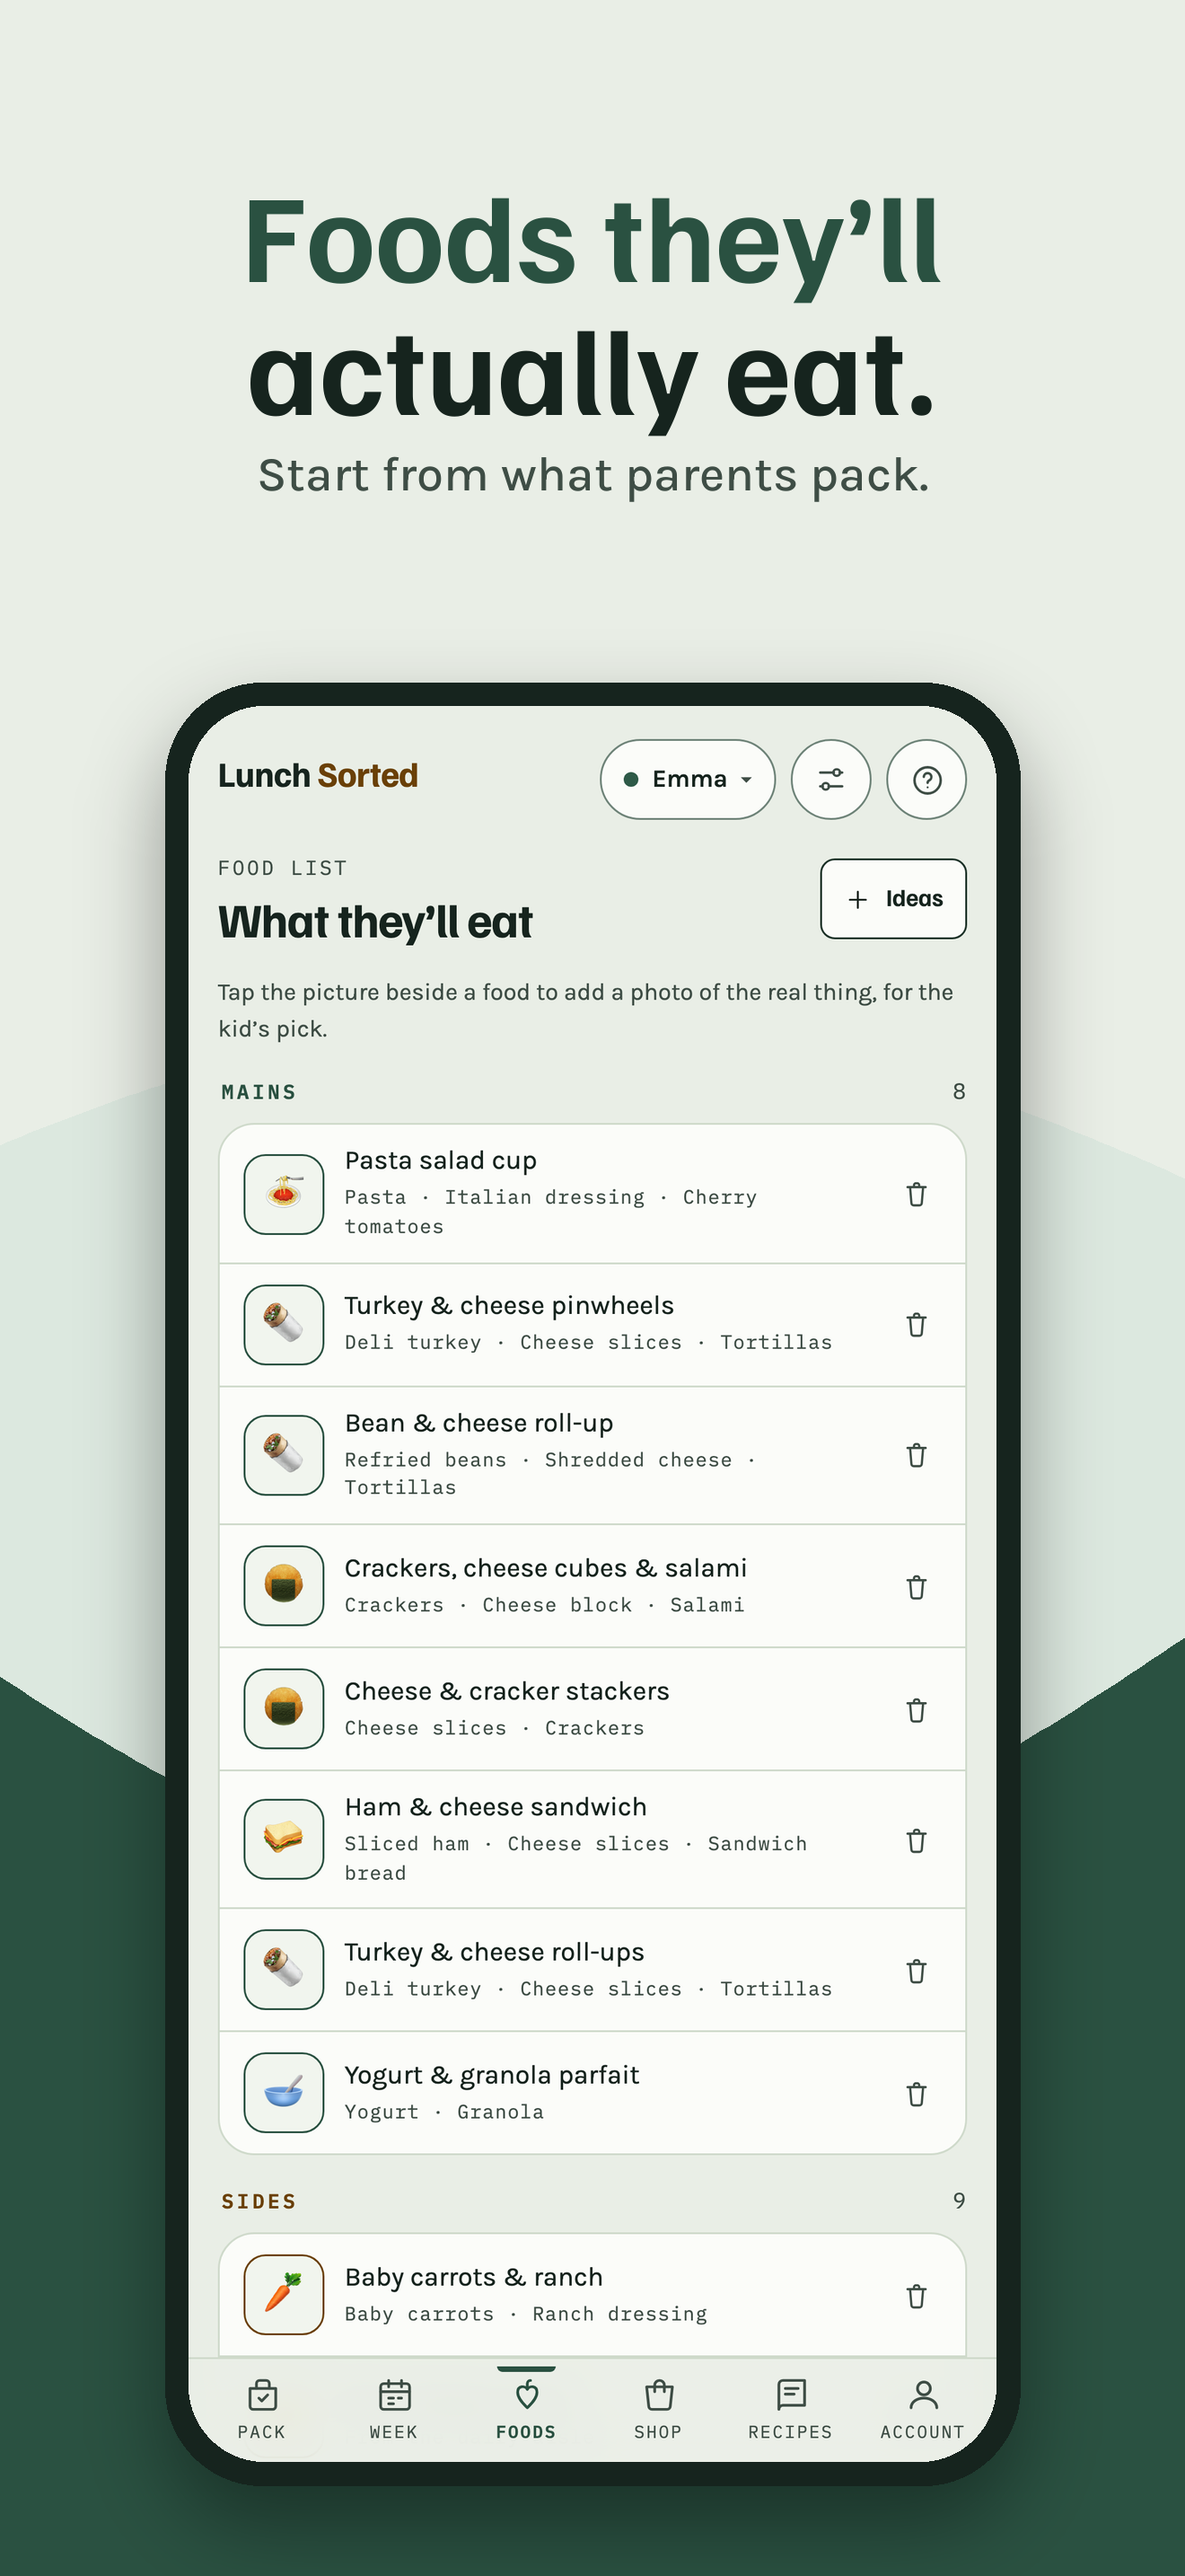
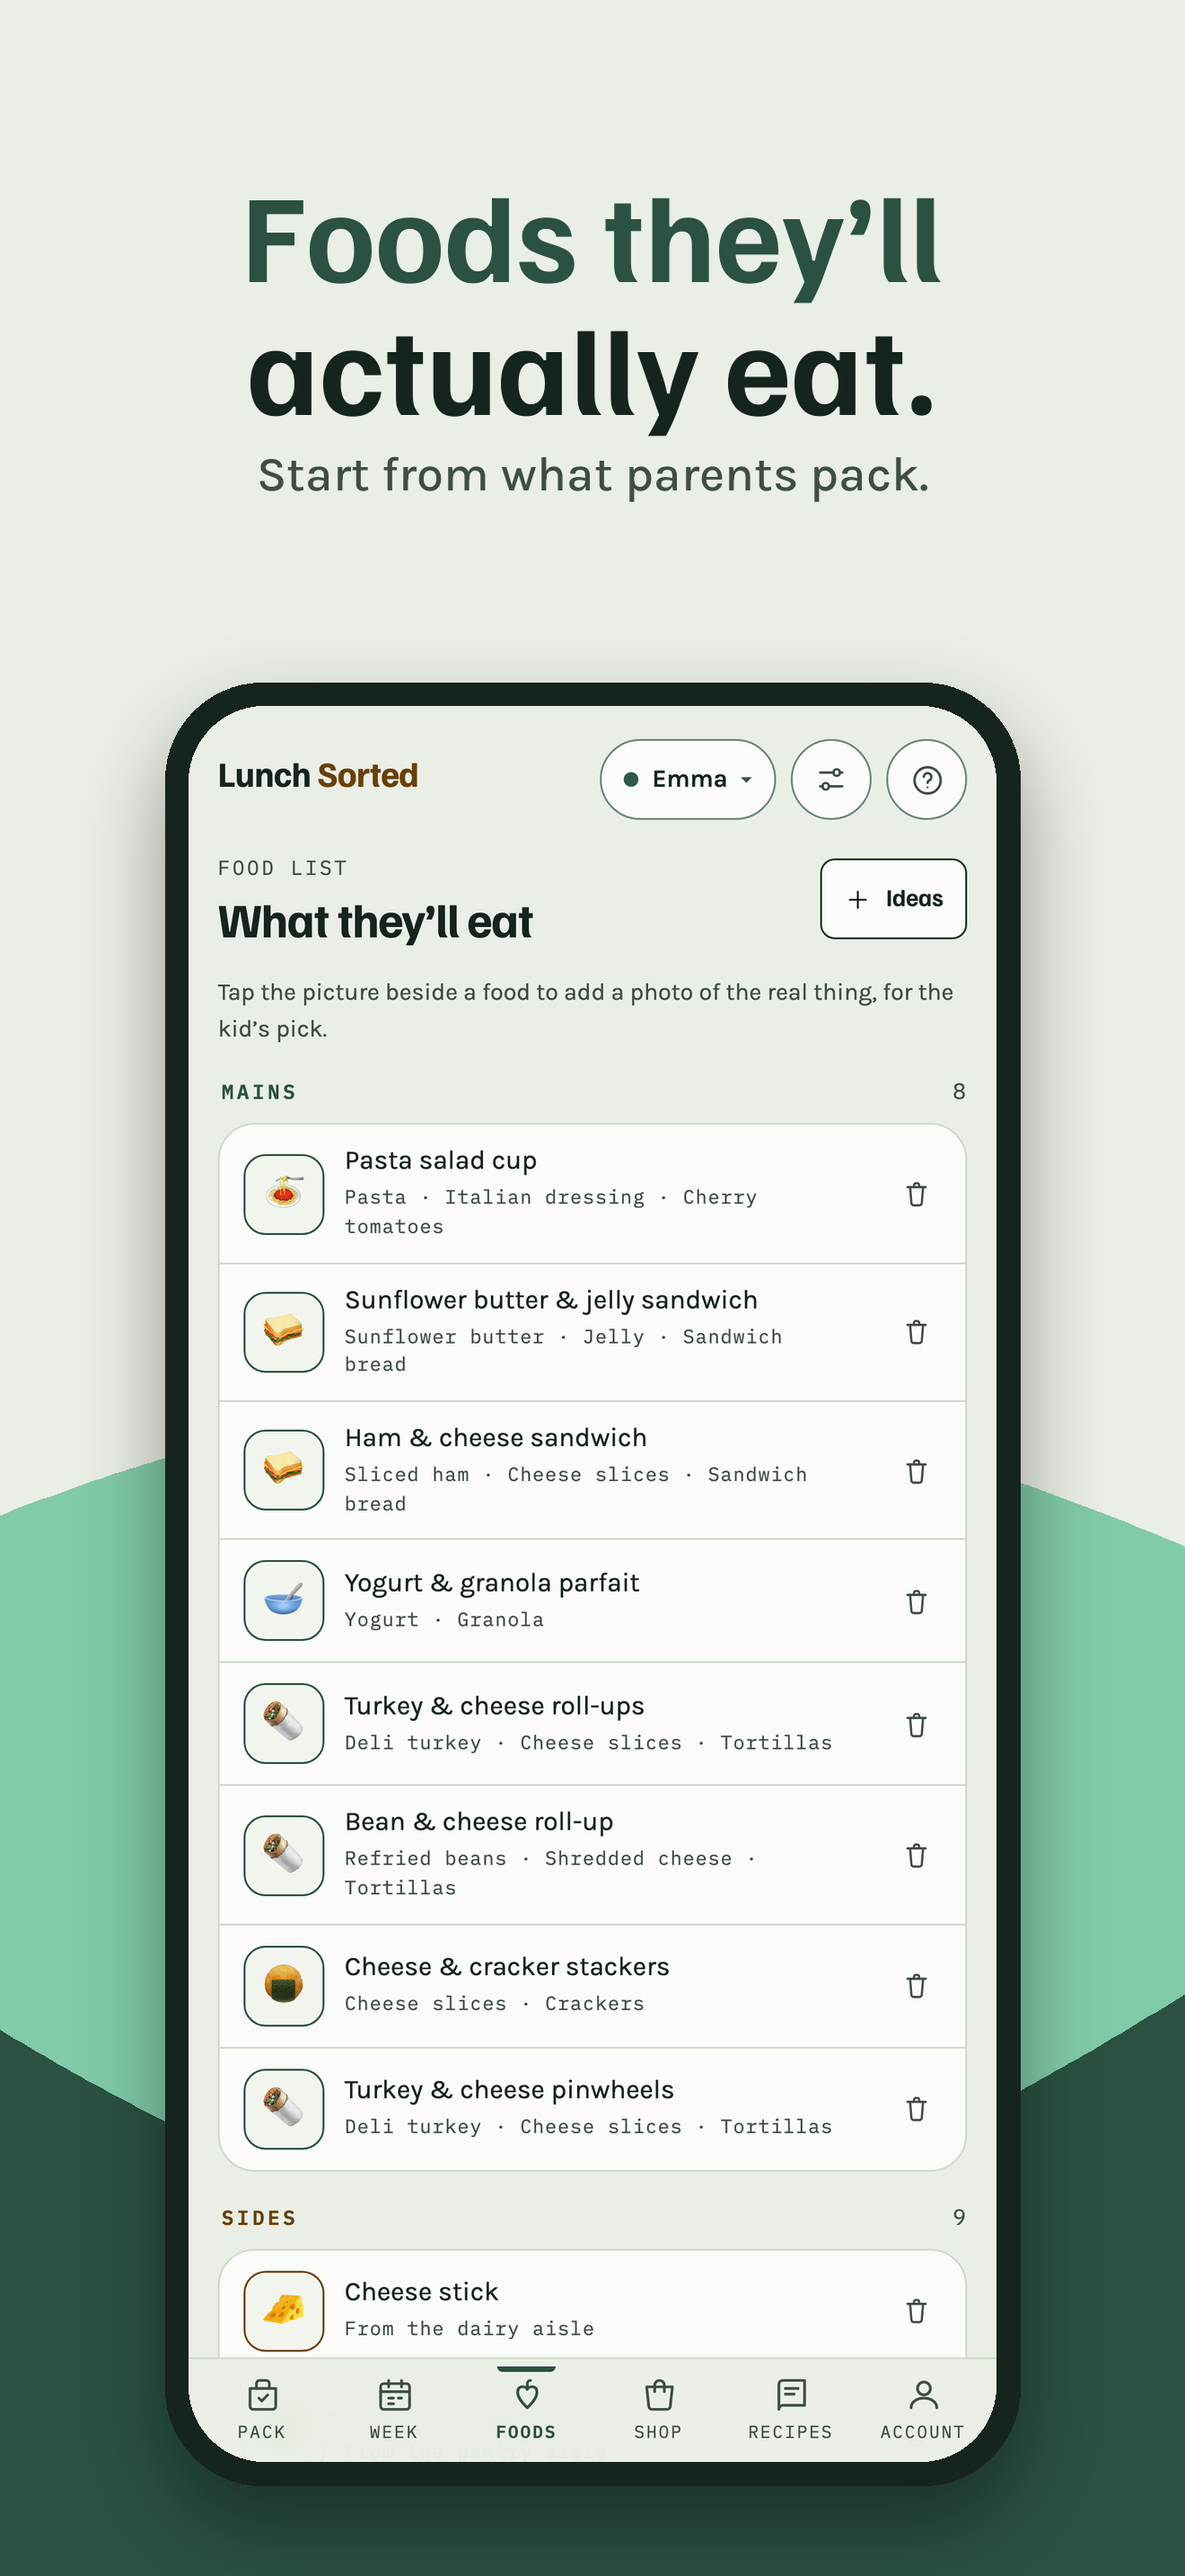
Store: the waves sit lower, and the lighter one is the dark theme's green so it shows

diff --git a/scripts/store-compose.py b/scripts/store-compose.py
@@ -14,7 +14,8 @@ GROUND = (0xE9, 0xEE, 0xE6)          # the page color, the canvas
 INK = (0x16, 0x24, 0x1E)             # the headline's second line and the bezel
 INK2 = (0x3E, 0x4D, 0x45)            # the line under the headline
 MAIN = (0x2A, 0x51, 0x41)            # the band, and the headline's first line
-SOFT = (0xDC, 0xE8, 0xDF)            # accent, soft: a second, paler wave behind the band
+MINT = (0x81, 0xCB, 0xA8)            # the dark theme's accent green: a second, lighter wave behind the band
+                                     # (accent-soft was tried and vanished into the ground)
 HEAD_FONT = 'store/FamiljenGrotesk-Bold.ttf'
 SUB = ImageFont.truetype('store/Karla-Medium.ttf', 54)
 
@@ -94,8 +95,8 @@ if missing: raise SystemExit('missing raw captures: ' + ', '.join(missing))
 
 N = len(SHOTS)
 strip = Image.new('RGB', (W * N, H), GROUND)
-wave(strip, SOFT, H * 0.50, 300, W * 2.9, 1.1)      # the paler wave, higher
-wave(strip, MAIN, H * 0.62, 330, W * 2.3, 0.0)      # the green band
+wave(strip, MINT, H * 0.64, 280, W * 2.9, 1.1)      # the lighter wave, higher
+wave(strip, MAIN, H * 0.76, 300, W * 2.3, 0.0)      # the green band
 for i, (raw, name, head, sub) in enumerate(SHOTS):
     caption(strip, i * W, head, sub)
     layer = phone(raw)

diff --git a/store/listing.md b/store/listing.md
@@ -147,7 +147,7 @@ the enrollment, so settle it before launch.
 Redesigned 2026-10-28 at Liz's ask (the September set read as a document, not an ad; a tilted
 collage after SchoolCafé's set was tried and rejected): calm. The page is the ground color, the
 headline centered with its first line in the green, one upright phone with a heavy bezel
-centered under it. Behind the phones two organic waves, the soft accent and the green, run
+centered under it. Behind the lower third of the phones two organic waves, the dark theme's lighter green and the main green, run
 across the whole set: drawn once on a canvas eight frames wide and cut per frame, so each frame
 carries a different slice of the same shape and the set reads as one (after Lunchbox Recipes'
 listing, in our shapes). Headlines are sized to read at a third of this width.
